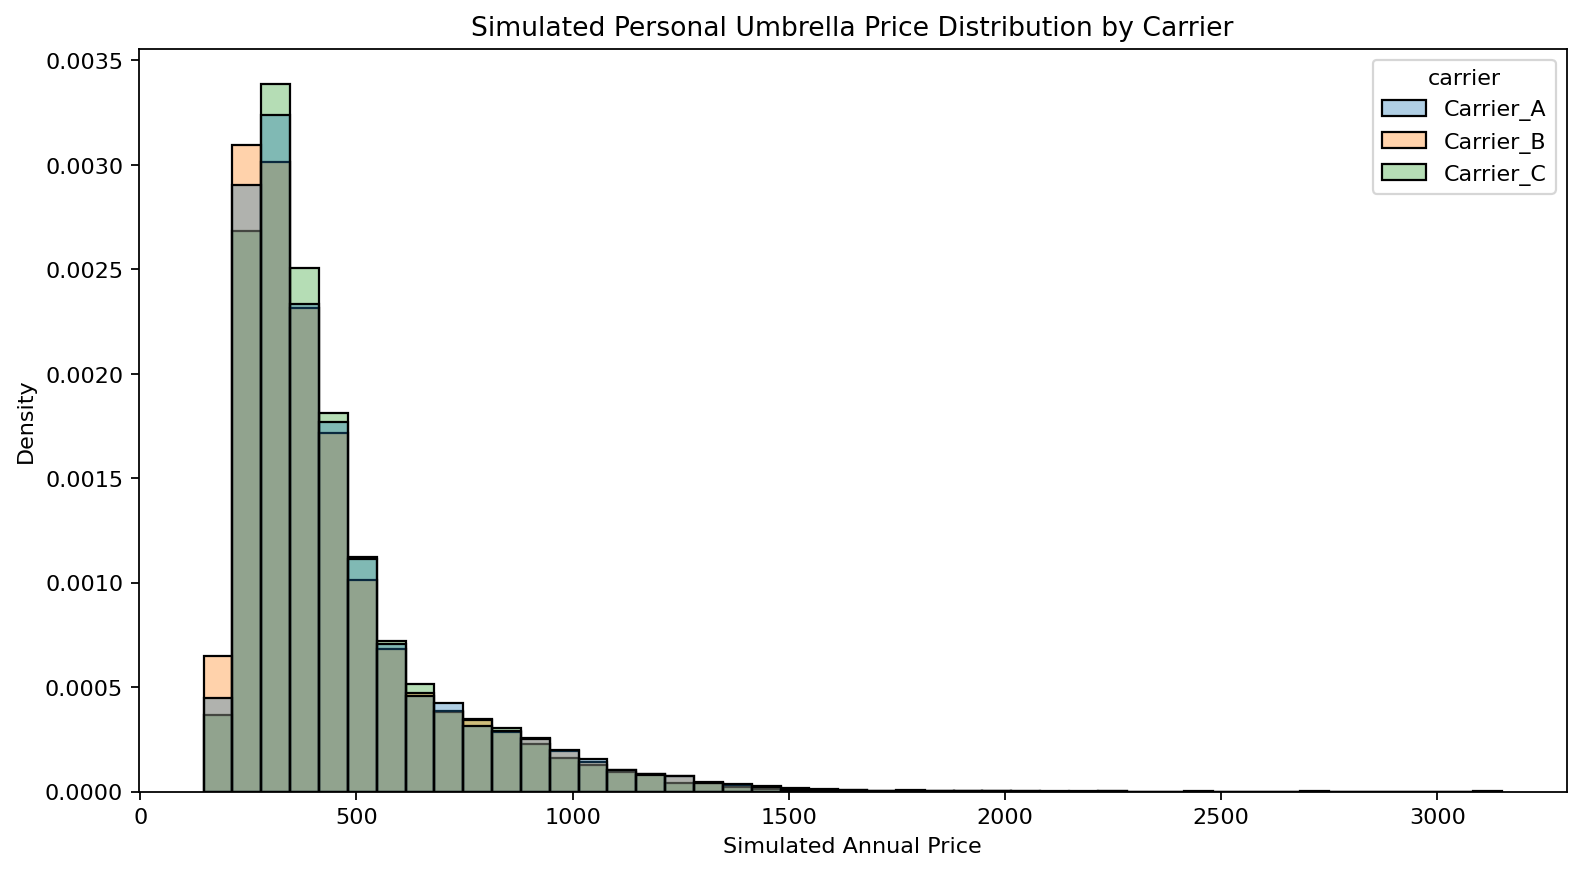
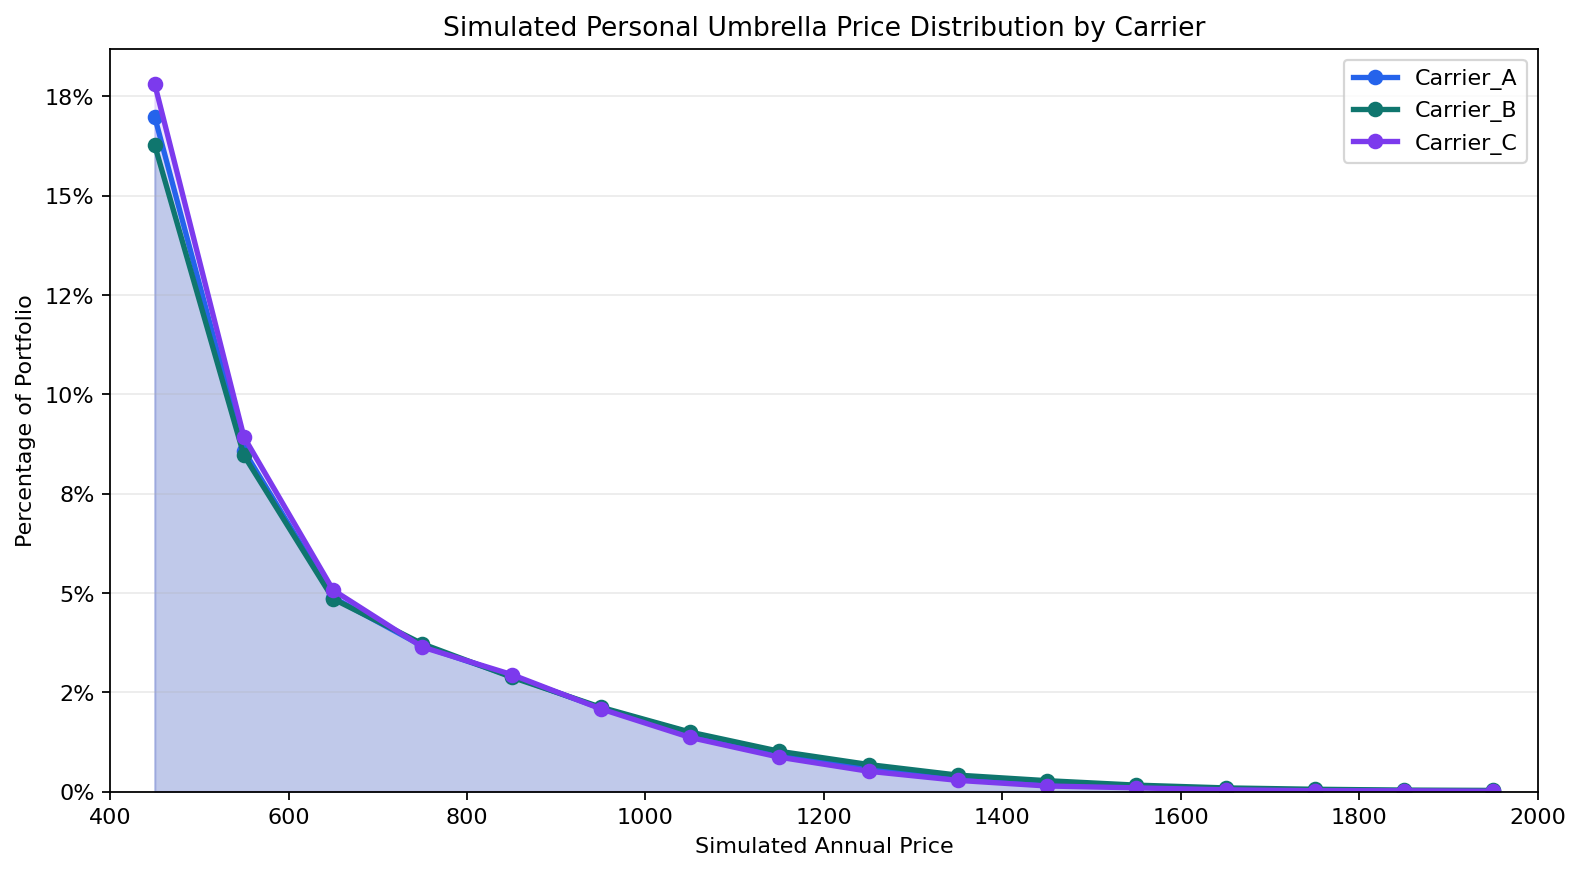
Refine umbrella portfolio visuals

diff --git a/src/visualization.py b/src/visualization.py
@@ -6,12 +6,18 @@ import matplotlib
 
 matplotlib.use("Agg")
 import matplotlib.pyplot as plt
+import numpy as np
 import pandas as pd
 import seaborn as sns
 
 
 ROOT = Path(__file__).resolve().parents[1]
 OUTPUT_DIR = ROOT / "outputs"
+CARRIER_PALETTE = {
+    "Carrier_A": "#2563eb",
+    "Carrier_B": "#0f766e",
+    "Carrier_C": "#7c3aed",
+}
 
 
 def _save(fig, filename):
@@ -25,18 +31,30 @@ def _save(fig, filename):
 
 def plot_price_distribution_by_carrier(df, filename="price_distribution_by_carrier.png"):
     fig, ax = plt.subplots(figsize=(10, 5.6))
-    sample = df.sample(min(len(df), 60_000), random_state=42)
-    sns.histplot(data=sample, x="simulated_price", hue="carrier", bins=45, stat="density", common_norm=False, alpha=0.35, ax=ax)
+    bins = np.arange(400, 2001, 100)
+    centers = bins[:-1] + np.diff(bins) / 2
+    for carrier, carrier_df in df.groupby("carrier"):
+        clipped = carrier_df["simulated_price"]
+        counts, _ = np.histogram(clipped, bins=bins)
+        percentages = counts / len(carrier_df) * 100
+        color = CARRIER_PALETTE.get(carrier, "#2563eb")
+        ax.plot(centers, percentages, marker="o", linewidth=2.4, label=carrier, color=color)
+        ax.fill_between(centers, percentages, alpha=0.12, color=color)
     ax.set_title("Simulated Personal Umbrella Price Distribution by Carrier")
     ax.set_xlabel("Simulated Annual Price")
-    ax.set_ylabel("Density")
+    ax.set_ylabel("Percentage of Portfolio")
+    ax.set_xlim(400, 2000)
+    ax.set_ylim(bottom=0)
+    ax.yaxis.set_major_formatter(lambda value, _: f"{value:.0f}%")
+    ax.legend(title="")
+    ax.grid(axis="y", alpha=0.25)
     return _save(fig, filename)
 
 
 def plot_segment_comparison(df, filename="segment_price_comparison.png"):
     sample = df.groupby(["risk_segment", "carrier"], observed=True, as_index=False).agg(avg_price=("simulated_price", "mean"))
     fig, ax = plt.subplots(figsize=(9.5, 5.4))
-    sns.barplot(data=sample, x="risk_segment", y="avg_price", hue="carrier", palette="Set2", ax=ax)
+    sns.barplot(data=sample, x="risk_segment", y="avg_price", hue="carrier", palette=CARRIER_PALETTE, ax=ax)
     ax.set_title("Average Simulated Price by Risk Segment")
     ax.set_xlabel("")
     ax.set_ylabel("Average Simulated Price")